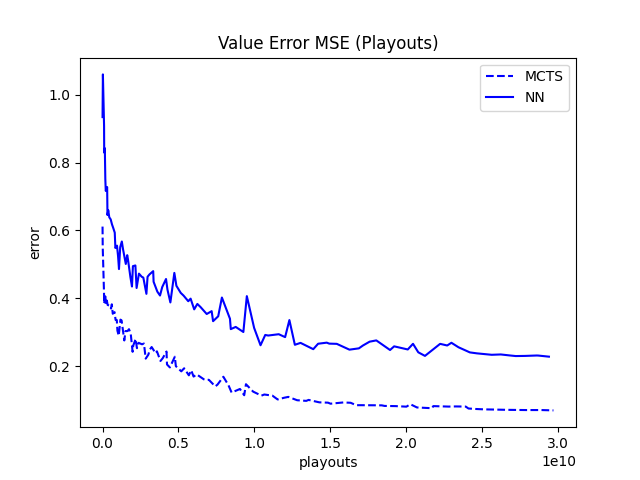
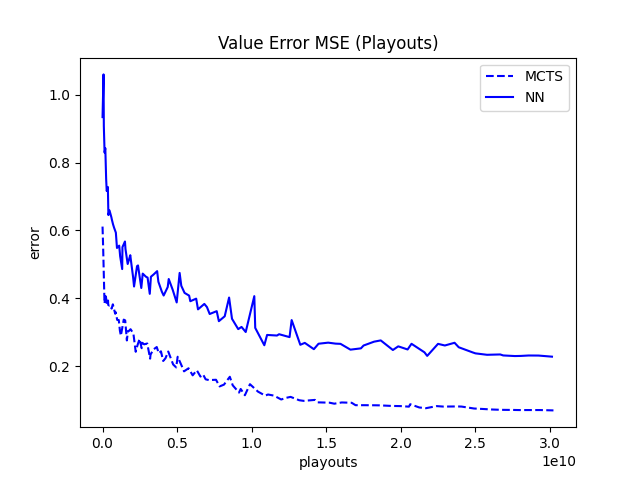
Changes to evals and monotone increasing playouts

diff --git a/py_src/DB/db.py b/py_src/DB/db.py
@@ -152,6 +152,44 @@ class DB:
             if ret_code != 0:
                 raise Exception("Could not extract data")
 
+    def write_position_thread(self, args):
+        i, row, pos_path = args
+        return self.write_position(i, row, pos_path)
+
+    def write_position(self, i:int, row, pos_path):
+
+        row =(
+            row["state"],
+            row["policy"],
+            row["outcome"],
+            row["moves_left"],
+            row["weight"] if "weight" in row else 1
+        )
+
+        row = read_tensors(row)
+
+        row = Data(
+            state=row[0],
+            policy=row[1],
+            outcome=row[2],
+            moves_left=row[3],
+            weight=row[4]
+        )
+
+        state_path = pos_path / f"{i}.pt"
+        state_path.parent.mkdir(parents=True, exist_ok=True)
+        buffer = io.BytesIO()
+        torch.save(row, buffer)
+        with bz2.open(state_path, "wb") as f:
+            f.write(buffer.getvalue())
+
+
+
+    def write_positions(self, data, pos_path:Path):
+
+        for i, row in enumerate(data):
+            self.write_position(i, row, pos_path)
+
     def save_file_tensors(self, arg):
         file, generation = arg
         chunk_name = Path(file).stem
@@ -163,35 +201,9 @@ class DB:
             except:
                 raise Exception(f"Could not read file\n{file}")
 
+        self.write_positions(data, Path(f"./cached_data/tmp/{generation}/{chunk_name}"))
+
         # save all the data
-        for i, row in enumerate(data):
-
-            row =(
-                row["state"],
-                row["policy"],
-                row["outcome"],
-                row["moves_left"],
-                row["weight"] if "weight" in row else 1
-            )
-
-            row = read_tensors(row)
-
-            row = Data(
-                state=row[0],
-                policy=row[1],
-                outcome=row[2],
-                moves_left=row[3],
-                weight=row[4]
-            )
-
-            state_path = Path(f"./cached_data/tmp/{generation}/{chunk_name}/{i}.pt")
-            state_path.parent.mkdir(parents=True, exist_ok=True)
-            buffer = io.BytesIO()
-            torch.save(row, buffer)
-            with bz2.open(state_path, "wb") as f:
-                f.write(buffer.getvalue())
-
-
         return len(data)
 
 
@@ -212,16 +224,35 @@ class DB:
         #     result = list(tqdm(p.imap_unordered(read_tensors, tuples, chunksize=16), total=len(tuples), desc="Making tensors"))
 
         tasks = [(file, generation) for file in game_files]
+
+        if len(tasks) == 1:
+            file, _ = tasks[0]
+
+            with open(file, "rb") as f:
+                try:
+                    data = bson.loads(f.read())['samples']
+                except:
+                    raise Exception(f"Could not read file\n{file}")
             
-        with Pool(cpu_count()) as p:
-            total_positions = sum(tqdm(p.imap_unordered(self.save_file_tensors, tasks, chunksize=16), total=len(game_files), desc="Making tensors"))
-            
+            args = [(i, row, Path(f"./cached_data/tmp/{generation}/{Path(file).stem}")) for i, row in enumerate(data)]
+
+            with Pool(cpu_count()) as p:
+                l = tqdm(p.imap_unordered(self.write_position_thread, args, chunksize=16), total=len(args), desc="Making tensors")
+                list(l)
+                
+                total_positions = len(data)
+
+        else:
+            with Pool(cpu_count()) as p:
+                total_positions = sum(tqdm(p.imap_unordered(self.save_file_tensors, tasks, chunksize=16), total=len(game_files), desc="Making tensors"))
+                
 
         print(f"Fetched {total_positions} positions")
 
         self.compress_generation(generation)
 
         # make chunky data
+        # I like 'em big, I like 'em chunky
         self.make_chunked(generation)
 
         self.delete_unchunked(generation)

diff --git a/cpp_src/simulation/structs.h b/cpp_src/simulation/structs.h
@@ -5,13 +5,15 @@
 #include "../config/config.h"
 #include "../DB/db.h"
 #include "../MCTS/agent.h"
+#include <cmath>
+#include <math.h>
 
 
 struct EvalRequest {
     bool completed;
     at::Tensor state;
     std::unique_ptr<nn::NNOut> result;
-    std::vector<game::move_id> * legal_moves;
+    std::vector<game::move_id>* legal_moves;
     pp::Player to_move;
 };
 
@@ -19,7 +21,7 @@ struct Batch {
     std::vector<EvalRequest*> requests;
     at::Tensor batch_tensor;
     std::pair<at::Tensor, at::Tensor> result;
-    std::vector<std::vector<game::move_id> *> legal_moves;
+    std::vector<std::vector<game::move_id>*> legal_moves;
     std::vector<pp::Player> to_move;
 };
 
@@ -88,5 +90,45 @@ struct ThreadEvalData {
     ThreadEvalData() {
         dead_game = false;
         first_nn_out_set = false;
+    }
+};
+
+
+struct EndgamePlayoutWeights {
+    double shift;
+    double slope;
+
+    EndgamePlayoutWeights(double generation) {
+        double uniform_at =
+            config::hp["endgame_playout_uniform_generation"].get<double>();
+        double uni_const =
+            config::hp["endgame_playout_uniform_const"].get<double>();
+        double base_shift = config::hp["endgame_playout_shift"].get<double>();
+        this->slope = config::hp["endgame_playout_slope"].get<double>();
+        double power = config::hp["endgame_playout_power"].get<double>();
+
+        double b = config::hp["endgame_playout_b"].get<double>();
+
+        double p = -std::log(b * std::pow(generation / uniform_at, power) + 1) / std::log(b);
+        this->shift = base_shift * (1 - p) + (uni_const)*p;
+    }
+
+    double operator()(double x) { return 1 / (1 + exp(shift - x / slope)); }
+};
+
+struct MonotoneIncreasingWeights {
+    double w;
+    MonotoneIncreasingWeights(double generation) {
+        double min = config::hp["monotone_min_w"].get<double>();
+        double max = 1.0;
+        double uniat = config::hp["monotone_uniform_generation"].get<double>();
+        // linaerly interpolate between min and max
+        this->w = min + (max - min) * generation / uniat;
+        // clamp to [min, max]
+        this->w = std::max(min, std::min(max, this->w));
+    }
+
+    double operator()() {
+        return this->w;
     }
 };

diff --git a/cpp_src/simulation/self_play.cpp b/cpp_src/simulation/self_play.cpp
@@ -1,4 +1,3 @@
-#include "endgame_playouts.h"
 #include "structs.h"
 #include <string>
 #include "../global.h"
@@ -104,18 +103,40 @@ void thread_play(
     double current_gen = thread_data->db->curr_generation;
 
     EndgamePlayoutWeights endgame_playout_weights(current_gen);
+    MonotoneIncreasingWeights inc_mcts_weights(current_gen);
+
     bool use_endgame_playout = config::hp["use_endgame_playouts"].get<bool>();
     int min_playout = config::hp["endgame_min_playouts"].get<int>();
+    // Check if use_inc_mcts is set in the json file
+    if (!config::has_key("use_inc_mcts")) {
+        config::hp["use_inc_mcts"] = false;
+    }
+    else if (config::hp["use_inc_mcts"].get<bool>()) {
+        std::cout << "Using monotone increasing MCTS" << std::endl;
+    }
+
+    bool use_inc_mcts = config::hp["use_inc_mcts"].get<bool>();
 
 
-    auto get_playouts = [search_depth, &endgame_playout_weights, use_endgame_playout, min_playout](int move){
+
+    auto get_playouts = [
+        search_depth,
+        &endgame_playout_weights,
+        use_endgame_playout,
+        min_playout,
+        use_inc_mcts,
+        &inc_mcts_weights
+    ] (int move) {
         int playouts = search_depth;
-        if(use_endgame_playout){
-            double weight = endgame_playout_weights((double) move);
-            playouts = (int) ((double ) search_depth * weight);
-            if(playouts < min_playout){
+        if (use_endgame_playout) {
+            double weight = endgame_playout_weights((double)move);
+            playouts = (int)((double)search_depth * weight);
+            if (playouts < min_playout) {
                 playouts = min_playout;
             }
+        }
+        else if (use_inc_mcts) {
+            playouts = (int)((double)search_depth * inc_mcts_weights());
         }
 
         return playouts;

diff --git a/py_src/evals.py b/py_src/evals.py
@@ -3,8 +3,7 @@ import pandas as pd
 import seaborn as sns
 import matplotlib.pyplot as plt
 from utils import set_run
-import torch
-from prefetch import load_generation
+from make_num_playouts import make_num_playouts
 import sys
 import json
 from pathlib import Path
@@ -18,11 +17,15 @@ warnings.filterwarnings("ignore", category=DeprecationWarning)
 
 
 if len(sys.argv) < 2:
-    print("Usage: python3 train.py <run_name>")
+    print("Usage: python3 evals.py <run_name>")
 
 game_name = "connect4"
+run_name = sys.argv[1]
 
-set_run(sys.argv[1], game_name)
+playouts_dict = make_num_playouts(game_name, run_name)
+
+set_run(run_name, game_name)
+
 
 db = DB()
 
@@ -43,9 +46,14 @@ evals = {}
 for file in eval_files:
     gen = int(file.stem)
     if gen != 0:
-        gen_playouts[gen] = (
-            load_generation(gen - 1).weights.sum() * max_playouts
-        ).item()
+
+        # db.prefetch_generation(gen - 1)
+
+        gen_playouts[gen] = playouts_dict[gen-1]
+
+        # gen_playouts[gen] = (
+        #     load_generation(gen - 1).weights.sum() * max_playouts
+        # ).item()
     else:
         gen_playouts[gen] = 0
 

diff --git a/py_src/make_num_playouts.py b/py_src/make_num_playouts.py
@@ -28,12 +28,23 @@ def save_playouts(playouts):
 def get_playouts_in_file(file_path):
     with bz2.open(file_path, 'rb') as f:
         chunk = torch.load(f)
-        return sum((x.weight for x in chunk))
+        # min_weights = CPP_CONF['endgame_min_playout']
+
+
+        min_weight = 0
+        if CPP_CONF['use_endgame_playouts']:
+            min_weight = CPP_CONF['endgame_min_playouts'] / CPP_CONF['search_depth']
+        
+        return sum((max(x.weight, min_weight) for x in chunk))
 
 
    
 
 def get_playouts_in_gen(generation: int):
+    db = DB()
+
+    db.prefetch_generation(generation)
+
     path = CACHE_PATH / str(generation)
 
     if not path.exists():
@@ -56,9 +67,13 @@ def update_playouts(playouts):
     # Get all folders in cached_data
     generations = sorted(db.generation_nums())
 
+
     # Get all files in each generation
     for generation in generations:
+
+
         if str(generation) not in playouts:
+
             n = get_playouts_in_gen(generation)
             if n is not None:
                 playouts[generation] = n

diff --git a/cpp_src/config/config.cpp b/cpp_src/config/config.cpp
@@ -21,3 +21,7 @@ nlohmann::json read_cfig(){
 void config::initialize(){
     config::hp = read_cfig();
 }
+
+bool config::has_key(const std::string& key){
+    return config::hp.find(key) != config::hp.end();
+}

diff --git a/cpp_src/config/config.h b/cpp_src/config/config.h
@@ -8,6 +8,7 @@ class config {
 public:
     static nlohmann::json hp;
     static void initialize();
+    static bool has_key(const std::string& param);
 };
 
 

diff --git a/md_src/todo_final.md b/md_src/todo_final.md
@@ -7,14 +7,12 @@
 
 ## Competition results for improvements
 - Make graph with all improvements vs default.
-    - Need to run the bison migration
     - cache the data again
     - evaluate the training data
     - make the graphs again
 
 ## Get competition results for Connect4
 Test other improvements on connect4???
-
 
 
 ## Fix performance graph for Connect4
